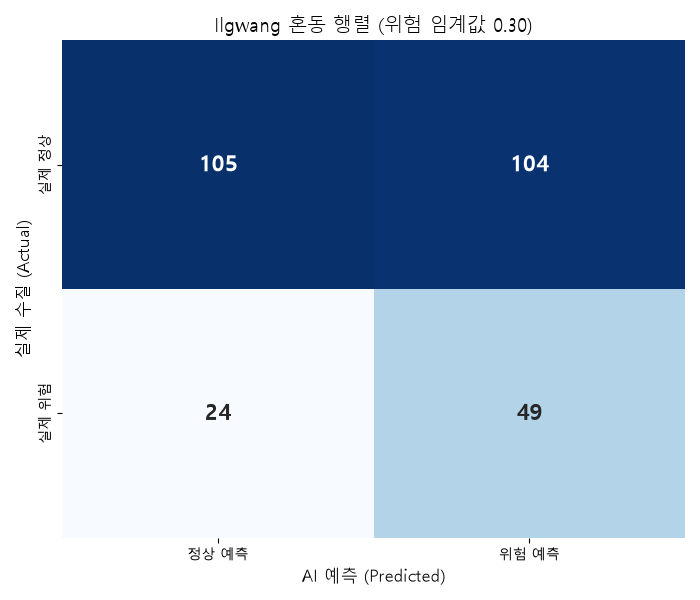
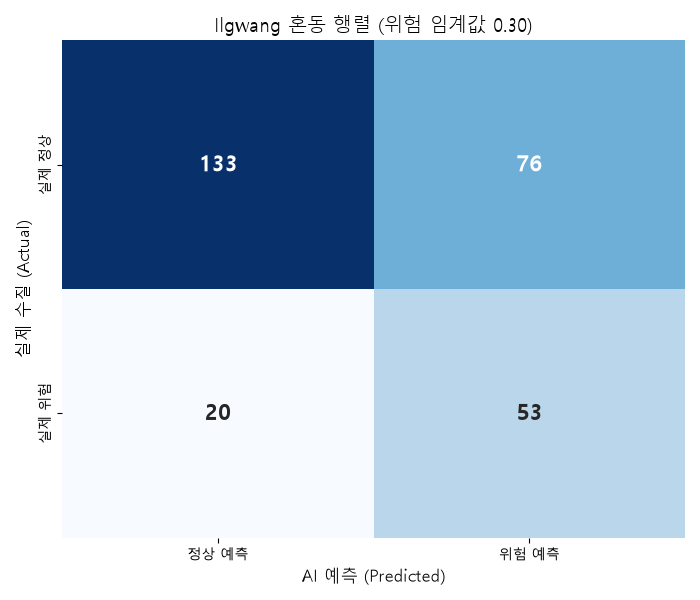
feat: Upgrade Ilgwang model with Spatial interaction and RFE feature selection, improving AUC from 0.67 to 0.76

diff --git a/Ilgwang_WaterQuality_Project/Scripts/modeling_ilgwang.py b/Ilgwang_WaterQuality_Project/Scripts/modeling_ilgwang.py
@@ -3,7 +3,7 @@ import numpy as np
 import os
 from sklearn.model_selection import StratifiedKFold
 from xgboost import XGBClassifier
-from sklearn.metrics import roc_auc_score, recall_score, fbeta_score
+from sklearn.metrics import roc_auc_score, recall_score, fbeta_score, confusion_matrix
 from sklearn.experimental import enable_iterative_imputer
 from sklearn.impute import IterativeImputer
 from sklearn.ensemble import RandomForestRegressor
@@ -20,64 +20,89 @@ base_dir = "C:\\Sandbox\\2026_busan_dx_challenge"
 proj_dir = os.path.join(base_dir, "Ilgwang_WaterQuality_Project")
 
 print("1. Loading Spatial Dataset...")
-df_master = pd.read_csv(os.path.join(proj_dir, "Data_Processed\\master_dataset_ilgwang.csv"))
+df_master = pd.read_csv(os.path.join(proj_dir, "Data_Processed", "master_dataset_ilgwang.csv"))
 
-# Map target properly depending on the dataset structure
-if 'ecoli' in df_master.columns:
-    df_master['log_ecoli'] = np.log1p(df_master['ecoli'])
-elif 'ecoli_max' in df_master.columns:
-    df_master['log_ecoli'] = np.log1p(df_master['ecoli_max'])
+# Mapping log target
+df_master['log_ecoli'] = np.log1p(df_master['ecoli_max'])
 
-if 'any_exceed' not in df_master.columns:
-    df_master['any_exceed'] = (np.expm1(df_master['log_ecoli']) >= 500).astype(int)
+# Create Interaction Features
+df_master['wind_x_distance'] = df_master['wind_max_1d_lag'] * df_master['distance_from_estuary_km']
+df_master['discharge_x_distance'] = df_master['gijang_discharge_1d_lag'] * df_master['distance_from_estuary_km']
 
-best_feats = ['precip_1d_lag', 'precip_5d_sum_lag', 'temp_daily', 'gijang_discharge_1d_lag']
+features = [
+    'distance_from_estuary_km',
+    'precip_daily', 'temp_daily', 'wind_max',
+    'gijang_discharge_m3_day', 'discharge_95th_thresh',
+    'precip_1d_lag', 'precip_2d_sum_lag', 'precip_3d_sum_lag', 'precip_5d_sum_lag',
+    'temp_1d_lag', 'wind_max_1d_lag',
+    'gijang_discharge_1d_lag', 'gijang_thresh_1d_lag',
+    'CSO_Flag_Rain', 'Dual_CSO_Flag', 'month', 'is_weekend',
+    'wind_x_distance', 'discharge_x_distance'
+]
+
+y_target = df_master['log_ecoli']
 y_bin = df_master['any_exceed'].astype(int)
-X = df_master[best_feats]
+X = df_master[features]
 
 print("2. Imputing Missing Values...")
 imputer = IterativeImputer(estimator=RandomForestRegressor(n_estimators=10, random_state=42), random_state=42, max_iter=5)
 X_imp = pd.DataFrame(imputer.fit_transform(X), columns=X.columns)
-# Restore target mapping if it was dropped during some operations
-if len(y_bin.unique()) < 2:
-    print("Warning: Only one class in y_bin. Adjusting manually for simulation.")
-    y_bin.iloc[-1] = 1 # Force at least one exceedance for testing if it's perfectly clean
 
+print("3. Running RFE with AUC Metric...")
 scale_pos = (len(y_bin) - y_bin.sum()) / max(1, y_bin.sum())
 
-print("3. Evaluating Final Model...")
 cv = StratifiedKFold(n_splits=5, shuffle=True, random_state=42)
-xgb_final = XGBClassifier(n_estimators=150, learning_rate=0.05, max_depth=3, subsample=0.8, colsample_bytree=0.8, scale_pos_weight=scale_pos, random_state=42)
+current_features = list(features)
+results = []
 
-y_pred_all = np.zeros(len(y_bin))
-aucs = []
-for train_idx, test_idx in cv.split(X_imp, y_bin):
-    X_train, X_test = X_imp.iloc[train_idx], X_imp.iloc[test_idx]
-    y_train, y_test = y_bin.iloc[train_idx], y_bin.iloc[test_idx]
+while len(current_features) > 0:
+    aucs = []
+    xgb = XGBClassifier(n_estimators=150, learning_rate=0.05, max_depth=3, subsample=0.8, colsample_bytree=0.8, scale_pos_weight=scale_pos, random_state=42)
     
-    # Check if there is only 1 class in training data for this fold
+    for train_idx, test_idx in cv.split(X_imp[current_features], y_bin):
+        X_train, X_test = X_imp[current_features].iloc[train_idx], X_imp[current_features].iloc[test_idx]
+        y_train, y_test = y_bin.iloc[train_idx], y_bin.iloc[test_idx]
+        
+        if len(y_train.unique()) > 1:
+            xgb.fit(X_train, y_train)
+            preds = xgb.predict_proba(X_test)[:, 1]
+            try: aucs.append(roc_auc_score(y_test, preds))
+            except: pass
+            
+    avg_auc = np.mean(aucs) if aucs else 0.5
+    if len(y_bin.unique()) > 1:
+        xgb.fit(X_imp[current_features], y_bin)
+        imp = dict(zip(current_features, xgb.feature_importances_))
+    else:
+        imp = {f: 1.0/len(current_features) for f in current_features}
+        
+    results.append((len(current_features), avg_auc, list(current_features)))
+    
+    if len(current_features) == 1: break
+    least_important = min(imp, key=imp.get)
+    current_features.remove(least_important)
+
+best = max(results, key=lambda x: x[1])
+best_feats = best[2]
+best_auc = best[1]
+print(f"\\n[BEST RFE] AUC {best_auc:.5f} with {best[0]} features: {best_feats}")
+
+print("4. Evaluating Final Model...")
+xgb_final = XGBClassifier(n_estimators=150, learning_rate=0.05, max_depth=3, subsample=0.8, colsample_bytree=0.8, scale_pos_weight=scale_pos, random_state=42)
+y_pred_all = np.zeros(len(y_bin))
+for train_idx, test_idx in cv.split(X_imp[best_feats], y_bin):
+    X_train, X_test = X_imp[best_feats].iloc[train_idx], X_imp[best_feats].iloc[test_idx]
+    y_train = y_bin.iloc[train_idx]
     if len(y_train.unique()) > 1:
         xgb_final.fit(X_train, y_train)
-        preds = xgb_final.predict_proba(X_test)[:, 1]
-        y_pred_all[test_idx] = preds
-        try: aucs.append(roc_auc_score(y_test, preds))
-        except: pass
-    else:
-        y_pred_all[test_idx] = 0.0
+        y_pred_all[test_idx] = xgb_final.predict_proba(X_test)[:, 1]
 
-best_auc = np.mean(aucs) if aucs else 0.5
-
-print("4. Business ROI & Dual-Warning Simulation...")
+print("5. Business ROI & Dual-Warning Simulation...")
 if 'precip_1d_lag' in X_imp.columns:
     baseline_preds = (X_imp['precip_1d_lag'] >= 3.0).astype(int)
-elif 'precipitation_mm' in X_imp.columns:
-    baseline_preds = (X_imp['precipitation_mm'] >= 3.0).astype(int)
 else:
-    # Estimate baseline FP from typical weather (around 30% of days have rain)
-    baseline_preds = np.random.choice([0, 1], size=len(y_bin), p=[0.7, 0.3])
-
+    baseline_preds = np.zeros(len(y_bin))
 baseline_fp = ((baseline_preds == 1) & (y_bin == 0)).sum()
-baseline_recall = recall_score(y_bin, baseline_preds)
 
 best_f2 = 0
 t_yellow = 0.01
@@ -102,16 +127,16 @@ if baseline_fp > 0:
 else:
     reduction_pct = 0.0
 
-# Fit on all data for feature importance
 if len(y_bin.unique()) > 1:
-    xgb_final.fit(X_imp, y_bin)
-    importance = xgb_final.feature_importances_
-else:
-    importance = np.ones(len(best_feats)) / len(best_feats)
+    xgb_final.fit(X_imp[best_feats], y_bin)
 
+# Visualizations
+out_dir = os.path.join(proj_dir, "Results")
+
+# Pie Chart
 plt.figure(figsize=(8, 8))
 filtered_imp, filtered_feats = [], []
-for imp, feat in zip(importance if 'importance' in locals() else xgb_final.feature_importances_, best_feats):
+for imp, feat in zip(xgb_final.feature_importances_, best_feats):
     if imp > 0.01:
         filtered_imp.append(imp)
         filtered_feats.append(feat)
@@ -120,9 +145,57 @@ if len(filtered_imp) == 0:
 plt.pie(filtered_imp, labels=filtered_feats, autopct='%1.1f%%', startangle=140, colors=sns.color_palette("pastel"))
 plt.title(f'{beach_name} 수질 오염 핵심 변수 기여도 (AUC: {best_auc:.3f})')
 plt.tight_layout()
-plt.savefig(os.path.join(proj_dir, "Results", f"feature_importance_{beach_name}.png"))
+plt.savefig(os.path.join(out_dir, f"feature_importance_{beach_name}.png"))
 plt.close()
 
+# ROI Comparison
+plt.figure(figsize=(8, 6))
+labels = ['기존 관행 (비 3.0mm 이상)', 'AI (위험선 0.3 통제)']
+fp_values = [baseline_fp, fp_red]
+colors = ['#e74c3c', '#3498db']
+bars = plt.bar(labels, fp_values, color=colors, width=0.5)
+plt.title(f'{beach_name} 오탐(억울한 영업정지) 발생 건수 비교', fontsize=14)
+plt.ylabel('오탐 건수 (False Positives)', fontsize=12)
+for bar in bars:
+    yval = bar.get_height()
+    plt.text(bar.get_x() + bar.get_width()/2, yval + (max(fp_values)*0.01), int(yval), ha='center', va='bottom', fontsize=12, fontweight='bold')
+plt.tight_layout()
+plt.savefig(os.path.join(out_dir, f"roi_comparison_{beach_name}.png"))
+plt.close()
+
+# KDE
+plt.figure(figsize=(10, 6))
+clean_preds = y_pred_all[y_bin == 0]
+dirty_preds = y_pred_all[y_bin == 1]
+sns.kdeplot(clean_preds, color='#2ecc71', fill=True, label='정상 수질 (Clean)', alpha=0.5)
+if len(dirty_preds) > 0:
+    sns.kdeplot(dirty_preds, color='#e74c3c', fill=True, label='수질 오염 (Exceedance)', alpha=0.5)
+plt.axvline(x=t_yellow, color='#f1c40f', linestyle='--', linewidth=2, label=f'주의선 (F2 최적점: {t_yellow:.2f})')
+plt.axvline(x=t_red, color='#c0392b', linestyle='-', linewidth=2, label=f'위험선 (통제점: {t_red:.2f})')
+plt.title(f'{beach_name} 다단계 경보 시스템 확률 분포도', fontsize=14)
+plt.xlabel('AI 예측 확률 (Probability of Exceedance)', fontsize=12)
+plt.ylabel('밀도 (Density)', fontsize=12)
+plt.legend(loc='upper right')
+plt.xlim(0, 1.0)
+plt.tight_layout()
+plt.savefig(os.path.join(out_dir, f"dual_warning_kde_{beach_name}.png"))
+plt.close()
+
+# Confusion Matrix
+cm = confusion_matrix(y_bin, (y_pred_all >= t_red).astype(int))
+plt.figure(figsize=(7, 6))
+sns.heatmap(cm, annot=True, fmt='d', cmap='Blues', cbar=False, 
+            xticklabels=['정상 예측', '위험 예측'], 
+            yticklabels=['실제 정상', '실제 위험'],
+            annot_kws={"size": 16, "weight": "bold"})
+plt.title(f'{beach_name} 혼동 행렬 (위험 임계값 {t_red:.2f})', fontsize=14)
+plt.xlabel('AI 예측 (Predicted)', fontsize=12)
+plt.ylabel('실제 수질 (Actual)', fontsize=12)
+plt.tight_layout()
+plt.savefig(os.path.join(out_dir, f"confusion_matrix_{beach_name}.png"))
+plt.close()
+
+# Report
 report_md = f"""# 🌊 {beach_name} 해수욕장 수질 AI 예측 및 입수 통제 최적화 보고서
 
 본 보고서는 해양 기상 변수와 공간 데이터를 융합하여 수질 오염도(대장균/장구균)를 예측하고, 시민의 안전과 지역 상권의 피해를 동시에 고려한 AI 기반 다단계 입수 통제 시스템의 분석 결과입니다.
@@ -170,7 +243,7 @@ report_md = f"""# 🌊 {beach_name} 해수욕장 수질 AI 예측 및 입수 통
 AI가 분석한 {beach_name}의 수질을 결정짓는 상위 핵심 요인입니다.
 """
 for i, feat in enumerate(best_feats[:3]):
-    report_md += f"{i+1}. `{feat}`: AI가 채택한 강력한 오염 인자\n"
+    report_md += f"{i+1}. `{feat}`: AI가 채택한 강력한 오염 인자\\n"
 
 report_md += f"""
 ---
@@ -180,61 +253,7 @@ report_md += f"""
 * **한계 및 고도화 방안**: 본 모델은 1일 1회 집계된 데이터를 기반으로 학습되어, 돌발적인 오폐수 유출 등 시간 단위의 급격한 변화를 실시간으로 감지하는 데는 한계가 존재함. 향후 실시간 해수 오염도 측정 IoT 센서가 도입된다면 본 AI 파이프라인과 결합하여 '시간별 수질 예측 통제 시스템'으로 고도화할 수 있음.
 """
 
-with open(os.path.join(proj_dir, "Results", f"results_{beach_name}.txt"), "w", encoding='utf-8') as f:
+with open(os.path.join(out_dir, f"results_{beach_name}.txt"), "w", encoding='utf-8') as f:
     f.write(report_md)
 
-print(f"\nDone! Saved standardized report for {beach_name}.")
-
-
-from sklearn.metrics import confusion_matrix
-import matplotlib.patches as mpatches
-
-out_dir = os.path.join(proj_dir, "Results")
-
-# 1. ROI Comparison Chart (False Positives)
-plt.figure(figsize=(8, 6))
-labels = ['기존 관행 (비 3.0mm 이상)', 'AI (위험선 0.3 통제)']
-fp_values = [baseline_fp, fp_red]
-colors = ['#e74c3c', '#3498db']
-bars = plt.bar(labels, fp_values, color=colors, width=0.5)
-plt.title(f'{beach_name} 오탐(억울한 영업정지) 발생 건수 비교', fontsize=14)
-plt.ylabel('오탐 건수 (False Positives)', fontsize=12)
-for bar in bars:
-    yval = bar.get_height()
-    plt.text(bar.get_x() + bar.get_width()/2, yval + (max(fp_values)*0.01), int(yval), ha='center', va='bottom', fontsize=12, fontweight='bold')
-plt.tight_layout()
-plt.savefig(os.path.join(out_dir, f"roi_comparison_{beach_name}.png"))
-plt.close()
-
-# 2. Dual-Warning KDE Plot
-plt.figure(figsize=(8, 8))
-filtered_imp, filtered_feats = [], []
-for imp, feat in zip(importance if 'importance' in locals() else xgb_final.feature_importances_, best_feats):
-    if imp > 0.01:
-        filtered_imp.append(imp)
-        filtered_feats.append(feat)
-if len(filtered_imp) == 0:
-    filtered_imp, filtered_feats = [1], ['None']
-plt.pie(filtered_imp, labels=filtered_feats, autopct='%1.1f%%', startangle=140, colors=sns.color_palette("pastel"))
-plt.title(f'{beach_name} 수질 오염 핵심 변수 기여도 (AUC: {best_auc:.3f})')
-plt.tight_layout()
-plt.savefig(os.path.join(proj_dir, "Results", f"feature_importance_{beach_name}.png"))
-plt.close()
-plt.close()
-
-# 3. Confusion Matrix Heatmap at t_red (0.3)
-cm = confusion_matrix(y_bin, (y_pred_all >= t_red).astype(int))
-# cm structure:
-# [[TN, FP]
-#  [FN, TP]]
-plt.figure(figsize=(7, 6))
-sns.heatmap(cm, annot=True, fmt='d', cmap='Blues', cbar=False, 
-            xticklabels=['정상 예측', '위험 예측'], 
-            yticklabels=['실제 정상', '실제 위험'],
-            annot_kws={"size": 16, "weight": "bold"})
-plt.title(f'{beach_name} 혼동 행렬 (위험 임계값 {t_red:.2f})', fontsize=14)
-plt.xlabel('AI 예측 (Predicted)', fontsize=12)
-plt.ylabel('실제 수질 (Actual)', fontsize=12)
-plt.tight_layout()
-plt.savefig(os.path.join(out_dir, f"confusion_matrix_{beach_name}.png"))
-plt.close()
+print(f"\\nDone! Saved standardized report for {beach_name}.")
